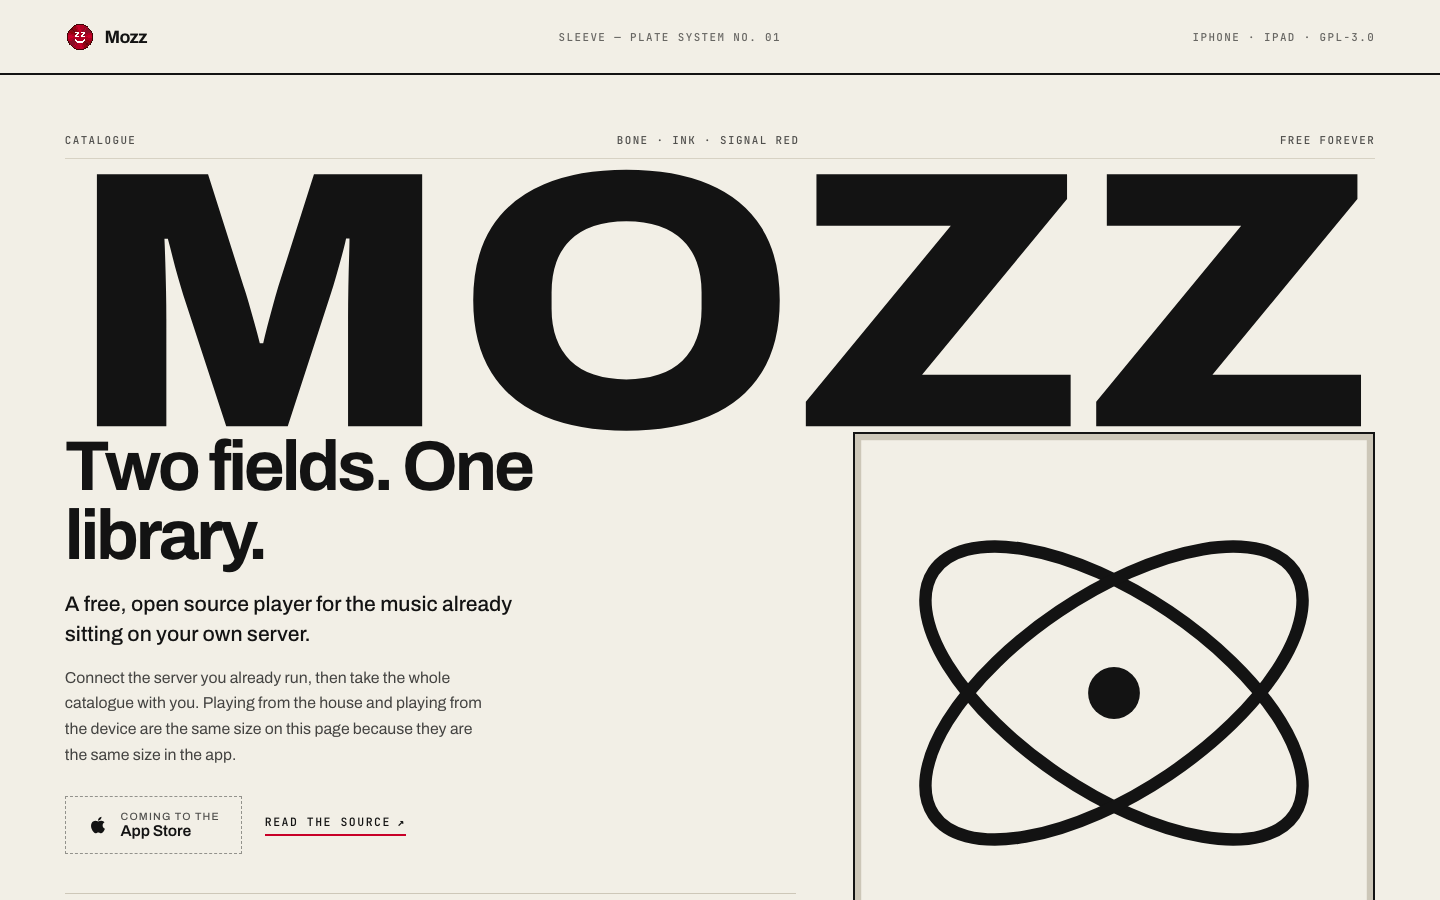
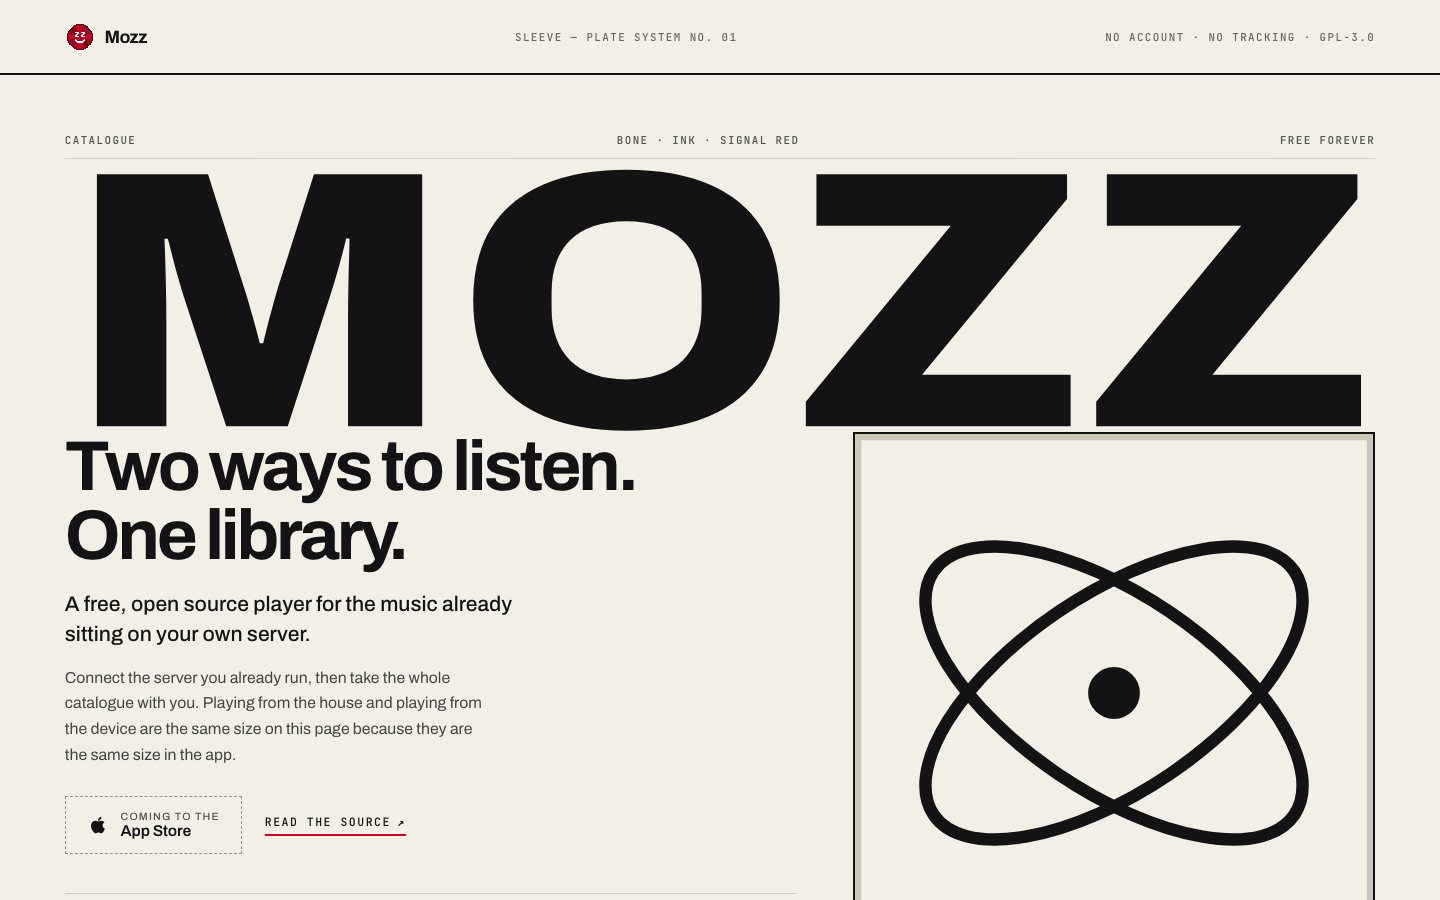
Make the two-device chapter about continuity, not platform coverage
An iPhone and iPad app is the bare minimum; fifteen pages were spending a
whole chapter announcing it, and most of them filled the body with the
platform FAQ answer. The two-device drawing is worth keeping — it just
has to be about the handover rather than the hardware list.

Every one of those sections now reads from a single CONTINUITY constant
in site.ts, so the claim exists in exactly one place. It is deliberately
narrow: iCloud Keychain moves the sign-in and Handoff passes the album,
artist or playlist you are on. That is all the README supports.

Deletes the "same catalog, same downloads, same queue" line wherever it
appeared across devices. Downloads are saved per device and nothing says
the play queue travels, so that sentence was inventing a feature. The
identical-sounding lines that remain are about a downloaded album
behaving like a streamed one on the same device, which is true.

Each heading is written in its own page's idiom rather than pasted —
a newspaper jump line on masthead, a museum label on emblem, lifting and
dropping a needle on rota, light moving on umbra. The visuals, scroll
animation and layout are untouched.

Also drops the platform brag from emblem's hero kicker, sleeve's
masthead and the bill of fare on chorus, finale and anthology. The
platform FAQ entry and the footer colophons stay: those are answers to a
real question, not boasts. Reshoots the three thumbnails whose hero
crops changed; sleeve's was already stale from an earlier headline edit.

diff --git a/src/data/site.ts b/src/data/site.ts
@@ -84,6 +84,19 @@ export const FEATURES = [
   },
 ] as const;
 
+/**
+ * What actually carries between a listener's devices.
+ *
+ * Deliberately narrow. The README supports two things: iCloud Keychain moves
+ * the sign-in, and Handoff advertises the destination you are on. It does NOT
+ * say downloads or the play queue sync — downloads are saved per device — so
+ * neither is claimed here.
+ */
+export const CONTINUITY = {
+  title: 'Pick up on the other one',
+  body: 'Sign in once and iCloud Keychain carries your server to your other devices. Handoff passes the album, artist or playlist you are on straight across, so it is already waiting.',
+} as const;
+
 /** The ownership argument, which is the whole point of the app. */
 export const OWNERSHIP = [
   {
